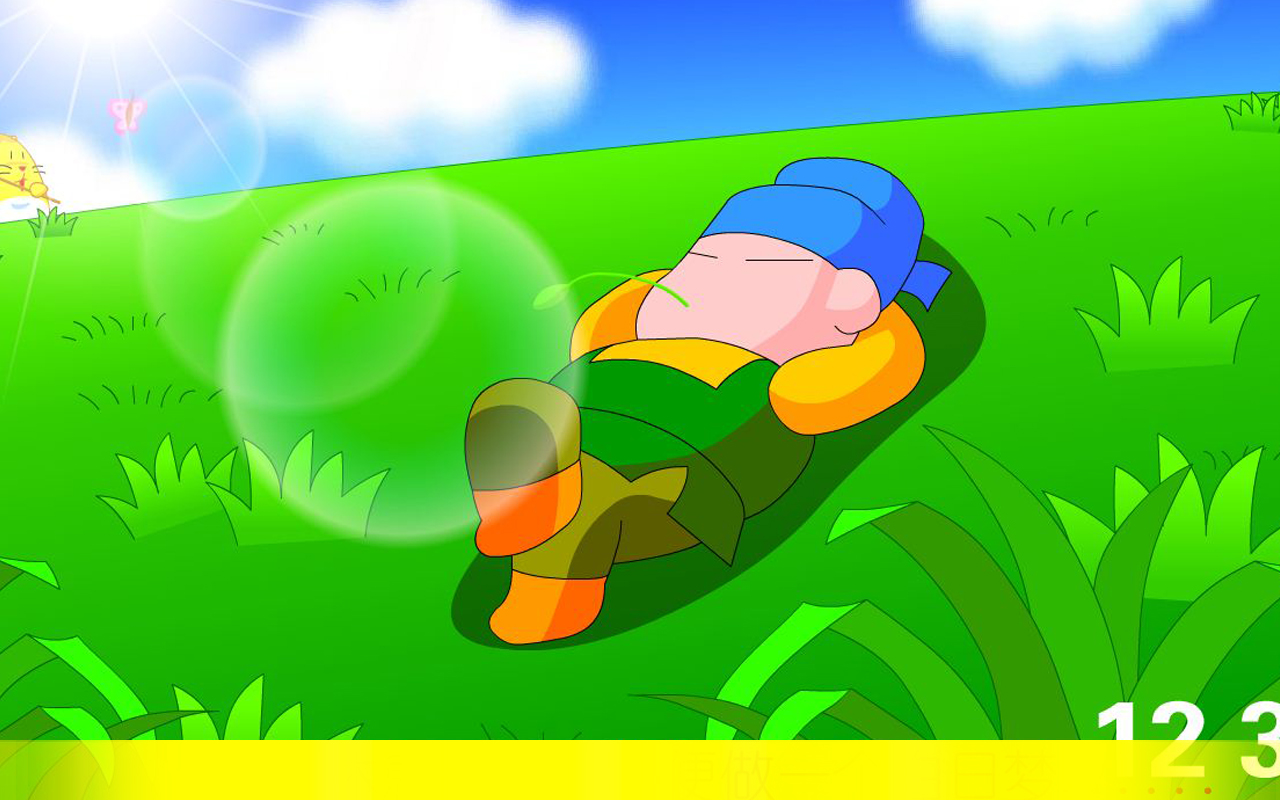
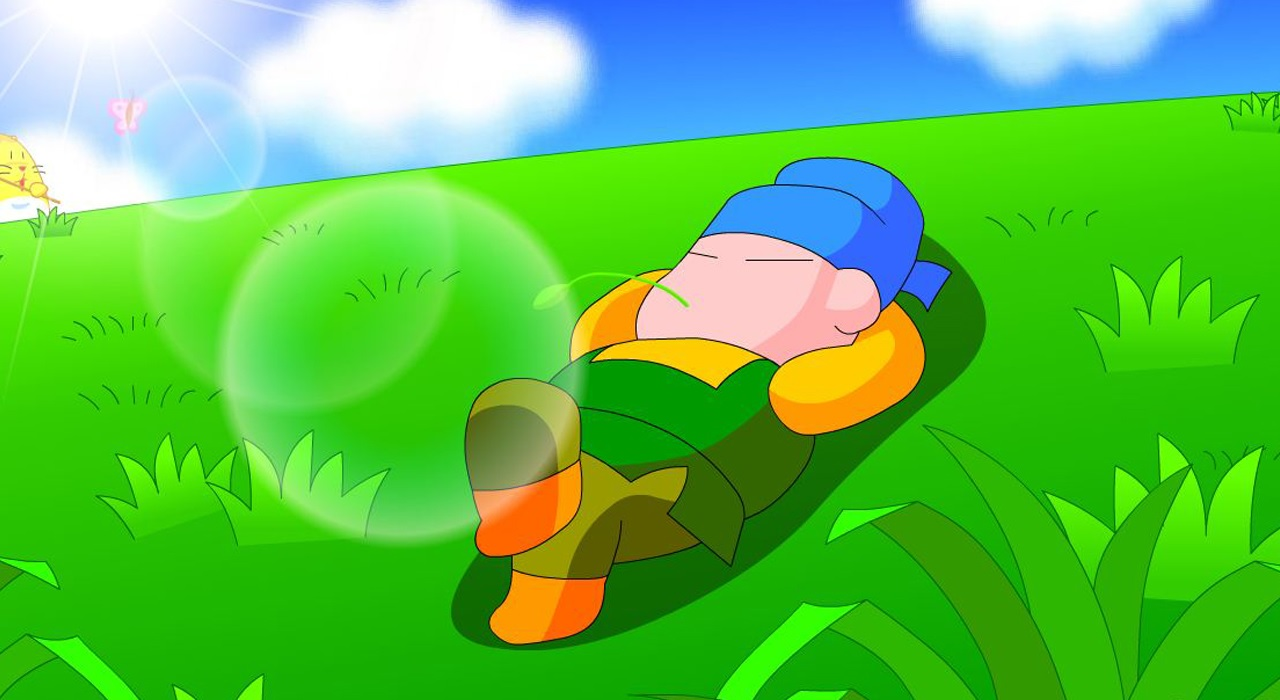
Change the background image size

diff --git a/style.css b/style.css
@@ -5,6 +5,7 @@ html, body {
 
 body {
 	background-image: url("./img/background.jpg");
-	background-size: 100%;
-	background-repeat: no-repeat
+	background-size: cover;
+	background-repeat: no-repeat;
+	background-position: center center
 }
